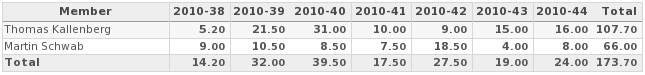
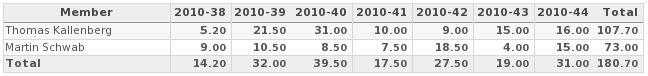
updated timemanagement

diff --git a/ch.hsr.eclipse.doc/src/main/latex/project-documentation/7timemanagement.tex b/ch.hsr.eclipse.doc/src/main/latex/project-documentation/7timemanagement.tex
@@ -6,10 +6,13 @@ involved in writing a refactoring semester thesis.
 \section{Time Budget}
 The extent of work expected for a semester thesis at HSR is 8 ECTS which 
 corresponds to an effort of 240 hours per person. Issues were created after 
-the meetings on Thursday and an amount of time was guessed for them. 
+the meetings on Thursday and an amount of time was guessed for them.
 
-\section{What the Charts are Saying}
-These charts and tables illustrate the workload by week and by topic:
+As mentioned in the section \ref{notgood} we sometimes forgot to log the time
+right away. Later we guessed the time invested in the issues we worked on.
+
+\section{What the Charts Tell Us}
+This tables illustrate the workload by week and team member.
 
 \begin{figure}[h]
 \includegraphics[width=1\textwidth]{images/timetable1.png}
@@ -25,9 +28,12 @@ of December}
 \label{timetable2}
 \end{figure}
 
+Summing up all, results in about 450 hours worked for the project.
+
 \section{What the Team is Saying}
 Charts are generated out of numbers which have been typed in by humans. There 
 has been a time between week eight and ten where time tracking was abandoned and 
-added three weeks later. Also, there were a lot of discussions that could not 
-have been assigned to a specific issue. Not every minute was tracked, so be 
-aware that the actual spent time was about ten percent above the reported time.
+added three weeks later. (See also section \ref{notgood}. Also, there were a lot
+of discussions that could not have been assigned to a specific issue. Not every
+minute was tracked, so be aware that the actual spent time was about ten percent
+above the reported time.

diff --git a/ch.hsr.eclipse.doc/src/main/latex/project-documentation/4conclusion.tex b/ch.hsr.eclipse.doc/src/main/latex/project-documentation/4conclusion.tex
@@ -464,8 +464,10 @@ rubber-stamped by the supervisor and transformed into issues for the following
 week. This way, a minimal administrative overhead was produced.
 
 \subsubsection{What we Would not do the Same Way}
+\label{notgood}
 
 \subsubsection*{Time Management}
+
 During most of the project, time was tracked for every issue. 
 However, the collected data was not actively used to measure team velocity and 
 estimate further issues. This valuable data could have been used for better 
